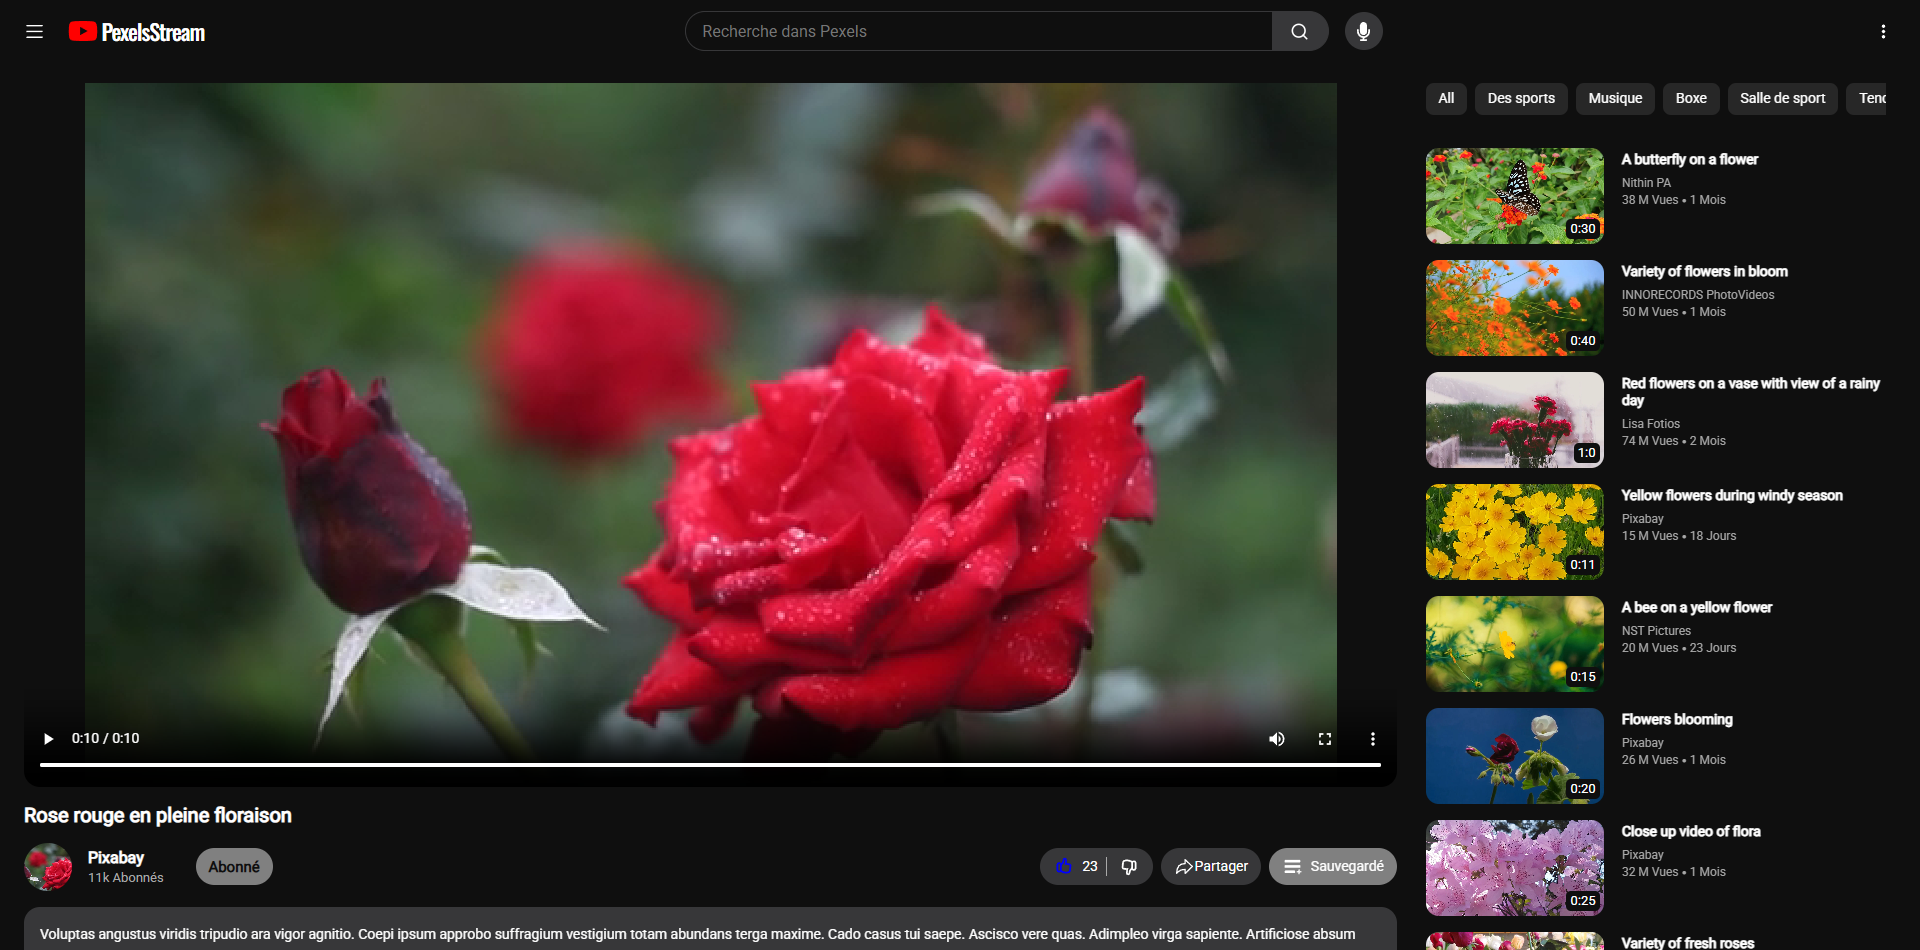
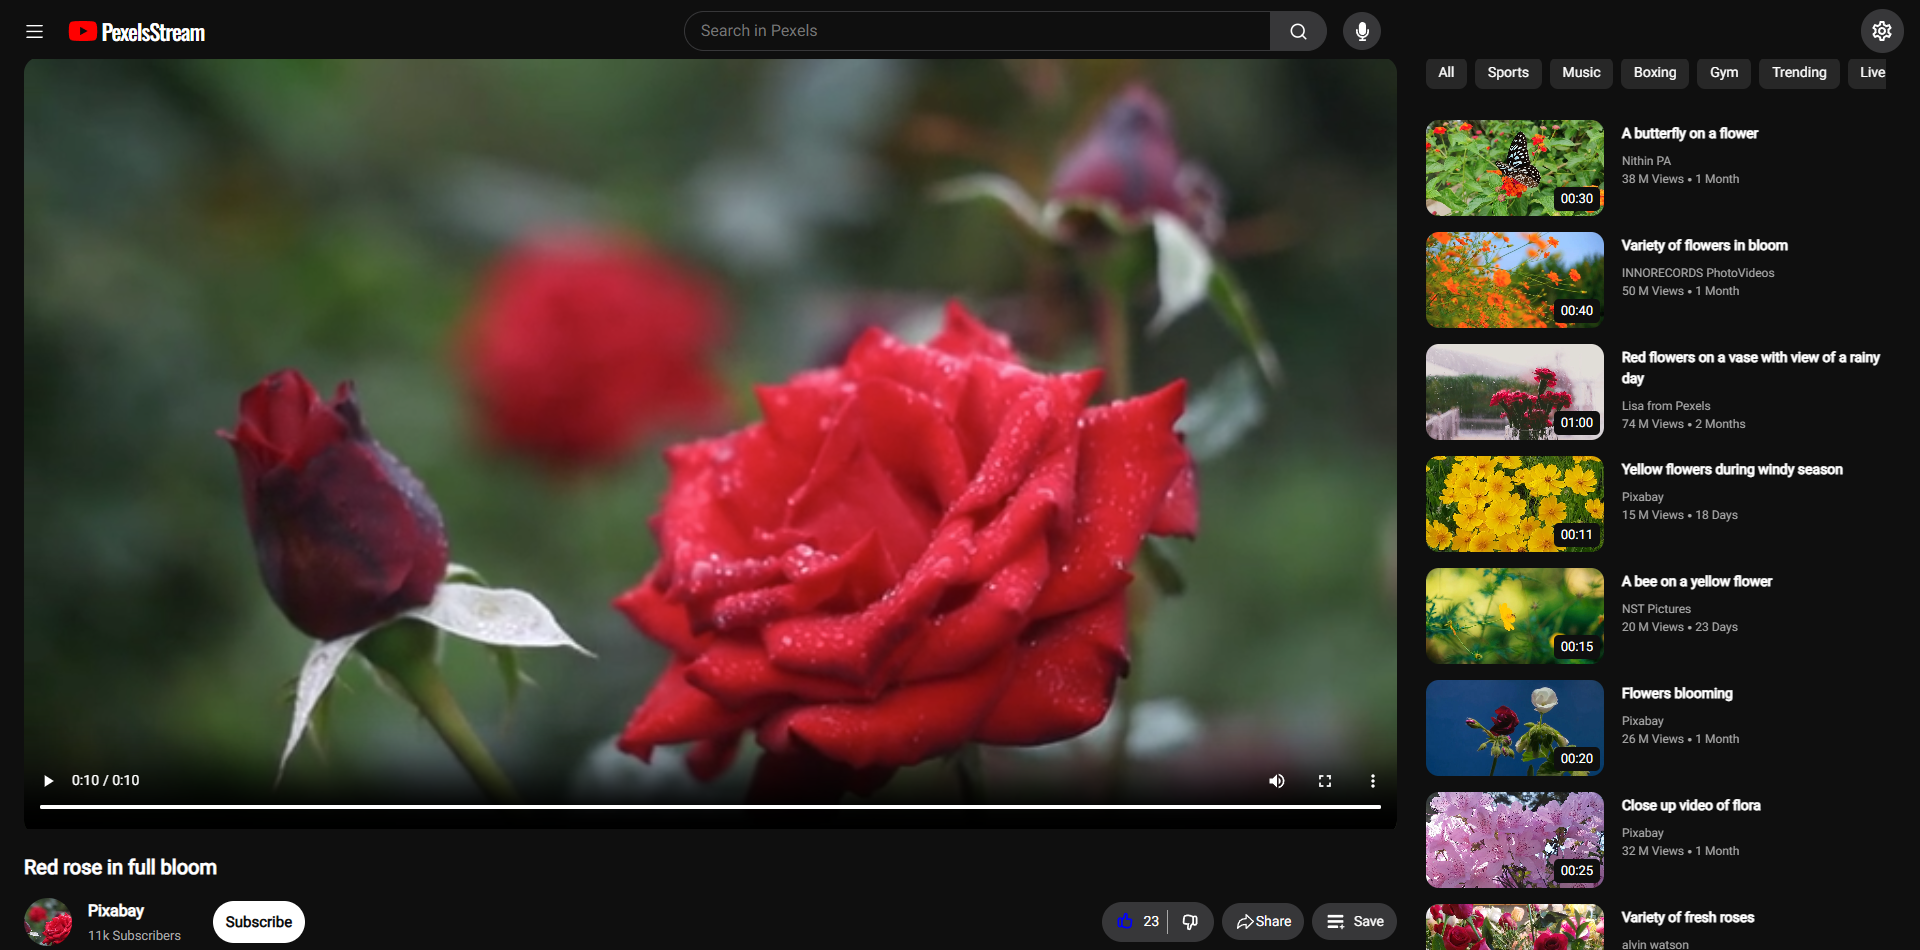
PEXELS STREAM 2.5.0
Update Responsive UI
Update Header.tsx
Update Icon.styles.ts
Update Header.styels.ts

diff --git a/src/components/header/Header.tsx b/src/components/header/Header.tsx
@@ -12,17 +12,14 @@ import { Icon } from "../../utils/Icon.styles";
 import { SlMenu } from "react-icons/sl";
 import { FaMicrophone, FaYoutube } from "react-icons/fa";
 import { LuSearch } from "react-icons/lu";
-// import { MdOutlineSettings } from "react-icons/md";
 import Settings from "../Settings/Settings";
 import { useAppContext } from "../../context/App.context";
 import SpeechRecognition, {
   useSpeechRecognition,
 } from "react-speech-recognition";
 import { useLocation } from "react-router-dom";
-// import { Setting } from "../Settings/Settings.styles";
 
 const Header = () => {
-  // const [showSettings, setShowSettings] = useState(true);
   const [searchText, setSearchText] = useState("");
   const { text, setSearchBarText, toggleMenuSize } = useAppContext();
   const { transcript, listening, browserSupportsSpeechRecognition } =
@@ -56,21 +53,23 @@ const Header = () => {
             <SlMenu size={17} />
           </Icon>
         )}
-        <LogoSection className={window.innerWidth <= 400 ? "small" : ""} to="/">
-          <FaYoutube color="#FF0000" size={30} />
-          <Text className="logo">PexelsStream</Text>
-        </LogoSection>
+        {window.innerWidth >= 450 && (
+          <LogoSection to="/">
+            <FaYoutube color="#FF0000" size={30} />
+            <Text className="logo">PexelsStream</Text>
+          </LogoSection>
+        )}
       </LeftSection>
       <SearchSection>
-        <SearchBar>
+        <SearchBar className={window.innerWidth <= 400 ? "amplified" : ""}>
           <input
-            className={window.innerWidth <= 400 ? "small" : ""}
             id="search-bar-input"
             value={searchText}
             placeholder={text.search}
             onChange={(e) => setSearchText(e.target.value)}
           />
           <Icon
+            className={window.innerWidth <= 400 ? "invisible" : ""}
             data-tooltip-id="search"
             data-tooltip-content={text.search}
             onClick={() => setSearchBarText(searchText)}
@@ -91,12 +90,6 @@ const Header = () => {
         </Icon>
       </SearchSection>
       <HeaderMoreSection>
-        {/* <Icon
-          onClick={() => setShowSettings((currentState) => !currentState)}
-        >
-          <MdOutlineSettings size={24} />
-        </Icon> */}
-        {/* {showSettings && <Settings setShowSettings={setShowSettings} />} */}
         <Settings />
       </HeaderMoreSection>
     </StyledHeader>

diff --git a/src/components/header/Header.styles.ts b/src/components/header/Header.styles.ts
@@ -50,14 +50,14 @@ export const SearchBar = styled.div`
   background-color: ${({ theme: { grey2 } }) => grey2};
   overflow: hidden;
 
+  &.amplified {
+    width: 50vw;
+  }
+
   input {
     background-color: ${({ theme: { background } }) => background};
     color: ${({ theme: { text } }) => text};
     font-size: inherit;
     padding-left: 1rem;
-  }
-
-  input.small {
-    padding: 0;
   }
 `;

diff --git a/src/utils/Icon.styles.ts b/src/utils/Icon.styles.ts
@@ -40,4 +40,8 @@ export const Icon = styled.div<{ $showBackground?: boolean }>`
       cursor: not-allowed;
     }
   }
+
+  &.invisible {
+    visibility: hidden;
+  }
 `;

diff --git a/README.md b/README.md
@@ -12,7 +12,7 @@
 
 - **STACK :**
 
-  - **PEXELS STREAM** : `2.4.0`
+  - **PEXELS STREAM** : `2.5.0`
   - **FAKER** : `8.4.1`
   - **REACT** : `18.2.0`
   - **PEXELS** : `1.4.0`
